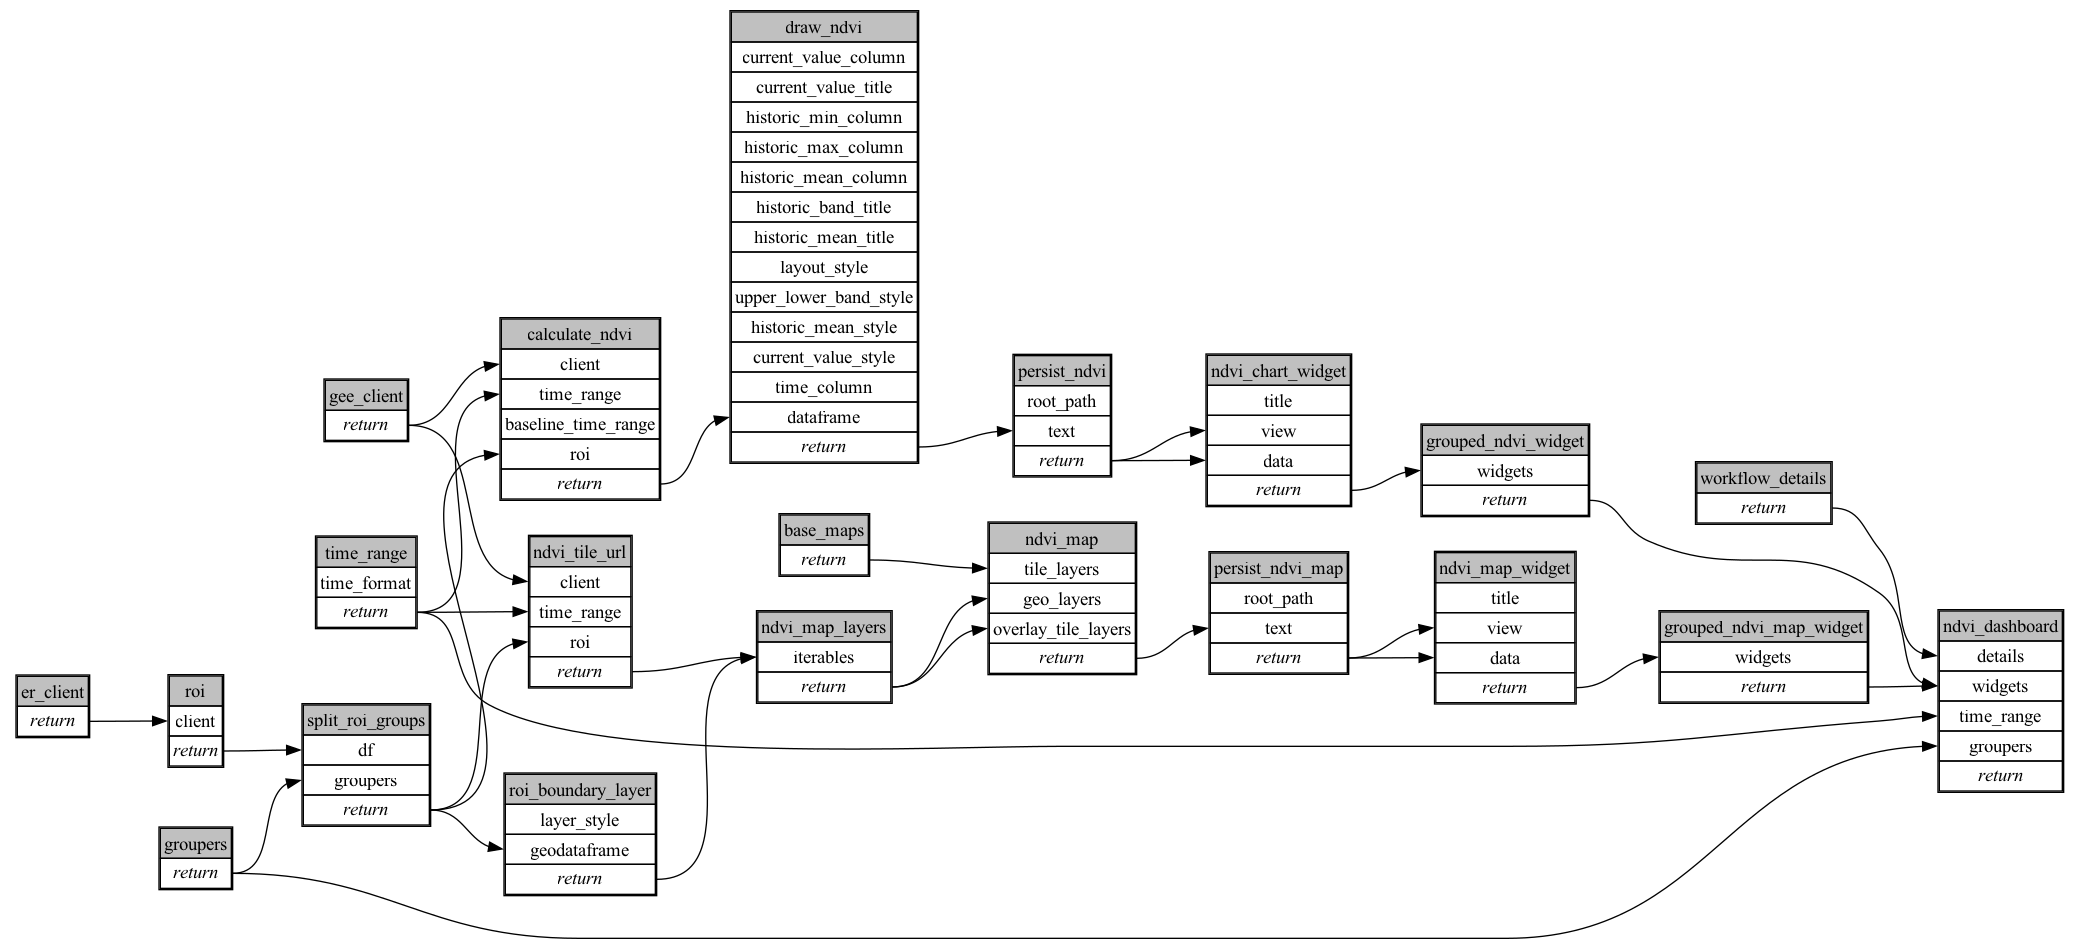
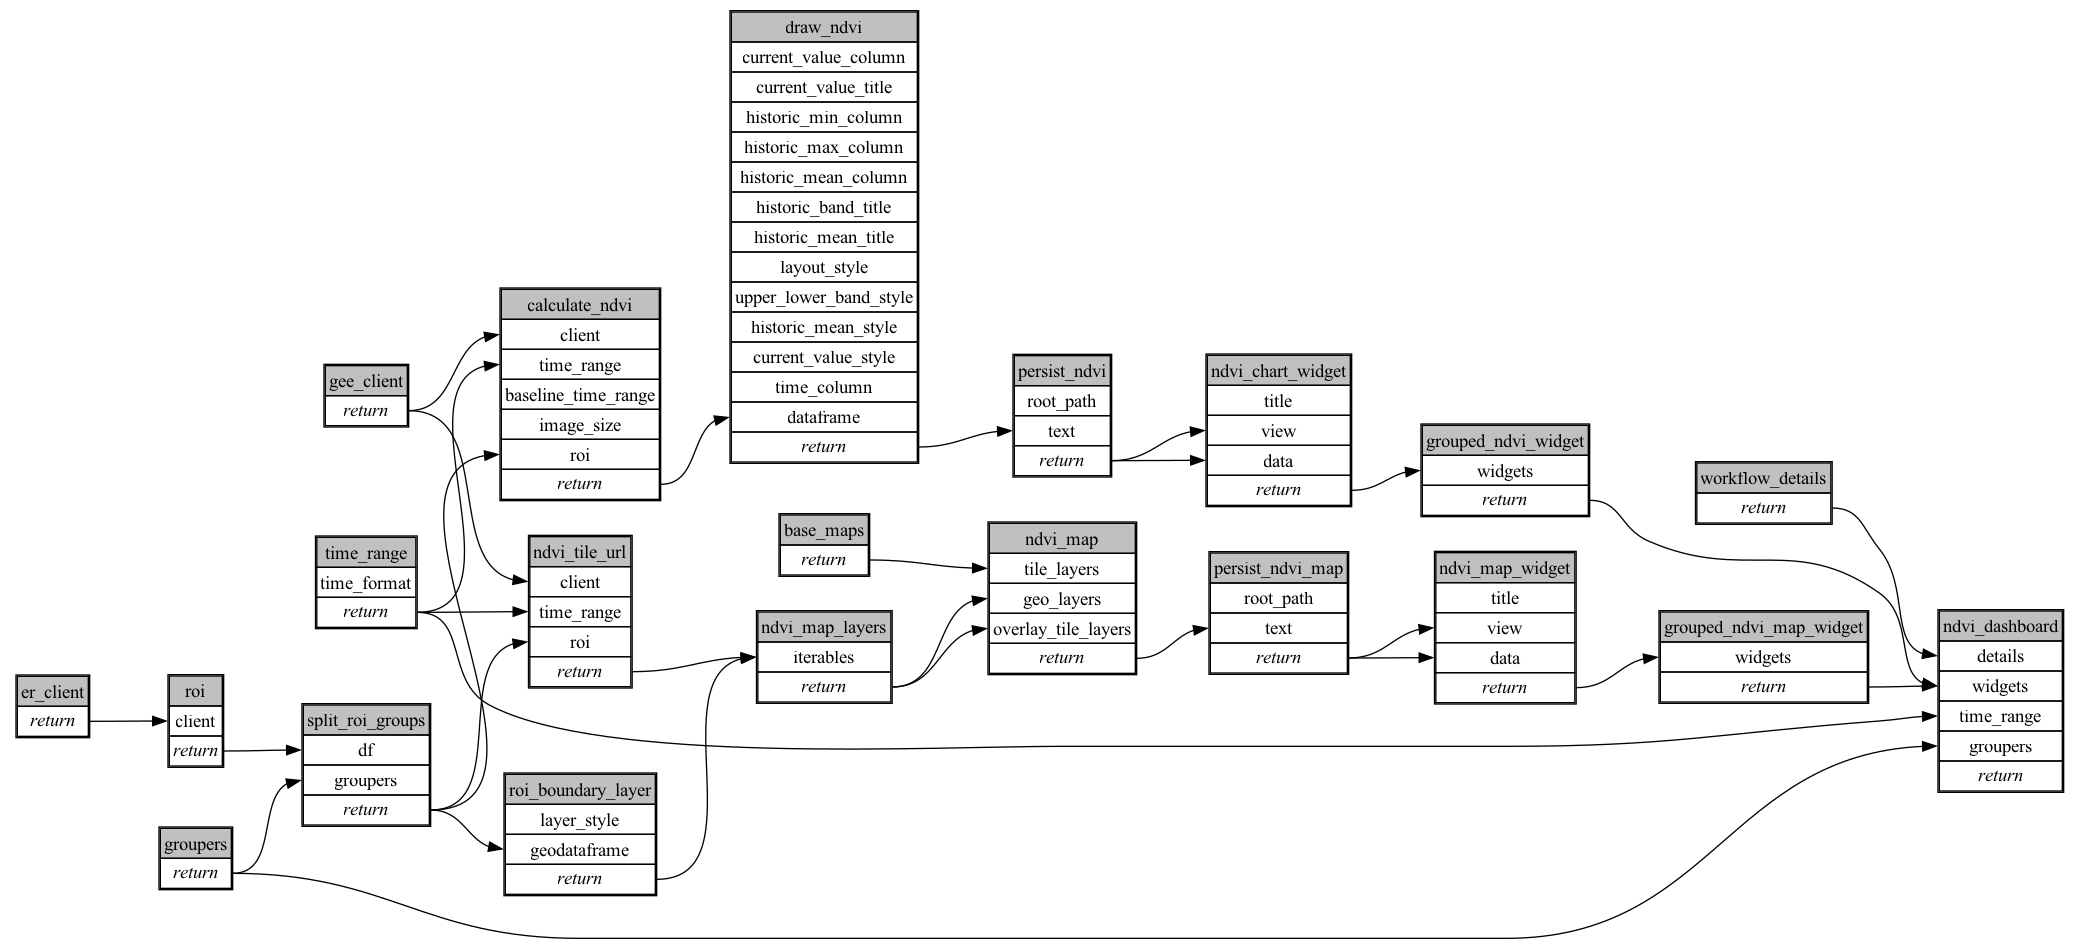
load roi rjsf tweaks

Changed region(s): [[0.1562, 0.2765, 0.3438, 0.553], [0.2188, 0.5837, 0.25, 0.6144]]

diff --git a/ecoscope-workflows-ndvi-workflow/ecoscope_workflows_ndvi_workflow/formdata.py b/ecoscope-workflows-ndvi-workflow/ecoscope_workflows_ndvi_workflow/formdata.py
@@ -33,11 +33,6 @@ class CalculateNdvi(BaseModel):
     model_config = ConfigDict(
         extra="forbid",
     )
-    image_size: int | None = Field(
-        1000000000,
-        description="Number of historical satellite images to fetch. Set to a large value to retrieve all available historical data. Only used when baseline_time_range is not provided.",
-        title="Image Size",
-    )
     ndvi_method: NdviMethod | None = Field(
         "MODIS MYD13A1 16-Day Composite",
         description="Method to obtain NDVI values. 'MODIS MYD13A1 16-Day Composite': Uses pre-calculated NDVI from 16-day composites. Provides quality-filtered 'best pixel' values at 500m resolution with ~0.025 accuracy. Better for phenology studies but may saturate in dense canopies. 'MODIS MCD43A4 Daily NBAR': Uses daily nadir BRDF-adjusted reflectance. Computes NDVI from NIR/Red bands with view-angle correction for consistent measurements. Higher temporal resolution but more susceptible to cloud gaps.",
@@ -293,12 +288,7 @@ class ValueGrouper(BaseModel):
     index_name: IndexName = Field(..., title="Category")
 
 
-class Source(str, Enum):
-    earthranger = "earthranger"
-
-
 class EarthRangerSpatialFeatures(BaseModel):
-    source: Literal["earthranger"] = Field("earthranger", title="Source")
     spatial_features_group_name: str = Field(
         ...,
         description="Name of the spatial features group in EarthRanger",
@@ -306,36 +296,32 @@ class EarthRangerSpatialFeatures(BaseModel):
     )
 
 
-class Source1(str, Enum):
-    local_file = "local_file"
-
-
 class LocalFileSpatialFeatures(BaseModel):
-    source: Literal["local_file"] = Field("local_file", title="Source")
     file_path: str = Field(
         ...,
-        description="Local path to geoparquet or geopackage file",
+        description="Path to geoparquet (.parquet) or geopackage (.gpkg) file",
         title="File Path",
     )
     layer: str | None = Field(
-        None, description="Layer name (for geopackage files only)", title="Layer"
+        None,
+        description="Layer name (only required for geopackage files)",
+        title="Layer",
     )
     name_column: str | None = Field(
         "name", description="Column to use as region name", title="Name Column"
     )
 
 
-class Source2(str, Enum):
-    remote_file = "remote_file"
-
-
 class RemoteFileSpatialFeatures(BaseModel):
-    source: Literal["remote_file"] = Field("remote_file", title="Source")
     url: str = Field(
-        ..., description="URL to download geoparquet or geopackage file", title="Url"
+        ...,
+        description="URL to geoparquet (.parquet) or geopackage (.gpkg) file",
+        title="Url",
     )
     layer: str | None = Field(
-        None, description="Layer name (for geopackage files only)", title="Layer"
+        None,
+        description="Layer name (only required for geopackage files)",
+        title="Layer",
     )
     name_column: str | None = Field(
         "name", description="Column to use as region name", title="Name Column"
@@ -427,7 +413,10 @@ class Roi(BaseModel):
         | RemoteFileSpatialFeatures
         | EarthRangerSpatialFeatures
     ) = Field(
-        ..., description="Configuration for spatial features source", title="Config"
+        default_factory=lambda: LocalFileSpatialFeatures.model_validate(
+            {"file_path": "", "name_column": "name"}
+        ),
+        title="Spatial Feature Data Source",
     )
 
 

diff --git a/ecoscope-workflows-ndvi-workflow/ecoscope_workflows_ndvi_workflow/params.py b/ecoscope-workflows-ndvi-workflow/ecoscope_workflows_ndvi_workflow/params.py
@@ -33,11 +33,6 @@ class CalculateNdvi(BaseModel):
     model_config = ConfigDict(
         extra="forbid",
     )
-    image_size: int | None = Field(
-        1000000000,
-        description="Number of historical satellite images to fetch. Set to a large value to retrieve all available historical data. Only used when baseline_time_range is not provided.",
-        title="Image Size",
-    )
     ndvi_method: NdviMethod | None = Field(
         "MODIS MYD13A1 16-Day Composite",
         description="Method to obtain NDVI values. 'MODIS MYD13A1 16-Day Composite': Uses pre-calculated NDVI from 16-day composites. Provides quality-filtered 'best pixel' values at 500m resolution with ~0.025 accuracy. Better for phenology studies but may saturate in dense canopies. 'MODIS MCD43A4 Daily NBAR': Uses daily nadir BRDF-adjusted reflectance. Computes NDVI from NIR/Red bands with view-angle correction for consistent measurements. Higher temporal resolution but more susceptible to cloud gaps.",
@@ -289,12 +284,7 @@ class ValueGrouper(BaseModel):
     index_name: str = Field(..., title="Category")
 
 
-class Source(str, Enum):
-    earthranger = "earthranger"
-
-
 class EarthRangerSpatialFeatures(BaseModel):
-    source: Literal["earthranger"] = Field("earthranger", title="Source")
     spatial_features_group_name: str = Field(
         ...,
         description="Name of the spatial features group in EarthRanger",
@@ -302,36 +292,32 @@ class EarthRangerSpatialFeatures(BaseModel):
     )
 
 
-class Source1(str, Enum):
-    local_file = "local_file"
-
-
 class LocalFileSpatialFeatures(BaseModel):
-    source: Literal["local_file"] = Field("local_file", title="Source")
     file_path: str = Field(
         ...,
-        description="Local path to geoparquet or geopackage file",
+        description="Path to geoparquet (.parquet) or geopackage (.gpkg) file",
         title="File Path",
     )
     layer: str | None = Field(
-        None, description="Layer name (for geopackage files only)", title="Layer"
+        None,
+        description="Layer name (only required for geopackage files)",
+        title="Layer",
     )
     name_column: str | None = Field(
         "name", description="Column to use as region name", title="Name Column"
     )
 
 
-class Source2(str, Enum):
-    remote_file = "remote_file"
-
-
 class RemoteFileSpatialFeatures(BaseModel):
-    source: Literal["remote_file"] = Field("remote_file", title="Source")
     url: str = Field(
-        ..., description="URL to download geoparquet or geopackage file", title="Url"
+        ...,
+        description="URL to geoparquet (.parquet) or geopackage (.gpkg) file",
+        title="Url",
     )
     layer: str | None = Field(
-        None, description="Layer name (for geopackage files only)", title="Layer"
+        None,
+        description="Layer name (only required for geopackage files)",
+        title="Layer",
     )
     name_column: str | None = Field(
         "name", description="Column to use as region name", title="Name Column"
@@ -422,9 +408,7 @@ class Roi(BaseModel):
         LocalFileSpatialFeatures
         | RemoteFileSpatialFeatures
         | EarthRangerSpatialFeatures
-    ) = Field(
-        ..., description="Configuration for spatial features source", title="Config"
-    )
+    ) = Field(..., title="Spatial Feature Data Source")
 
 
 class NdviMap(BaseModel):

diff --git a/ecoscope-workflows-ndvi-workflow/ecoscope_workflows_ndvi_workflow/dags/jupytext.py b/ecoscope-workflows-ndvi-workflow/ecoscope_workflows_ndvi_workflow/dags/jupytext.py
@@ -222,7 +222,6 @@ split_roi_groups = (
 # parameters
 
 calculate_ndvi_params = dict(
-    image_size=...,
     ndvi_method=...,
     grouping_unit=...,
 )
@@ -239,6 +238,7 @@ calculate_ndvi = (
         client=gee_client,
         time_range=time_range,
         baseline_time_range=None,
+        image_size=1000000000,
         **calculate_ndvi_params,
     )
     .mapvalues(argnames=["roi"], argvalues=split_roi_groups)

diff --git a/ecoscope-workflows-ndvi-workflow/ecoscope_workflows_ndvi_workflow/dags/run_async.py b/ecoscope-workflows-ndvi-workflow/ecoscope_workflows_ndvi_workflow/dags/run_async.py
@@ -163,6 +163,7 @@ def main(params: Params):
                 "client": DependsOn("gee_client"),
                 "time_range": DependsOn("time_range"),
                 "baseline_time_range": None,
+                "image_size": 1000000000,
             }
             | (params_dict.get("calculate_ndvi") or {}),
             method="mapvalues",

diff --git a/ecoscope-workflows-ndvi-workflow/ecoscope_workflows_ndvi_workflow/dags/run_async_mock_io.py b/ecoscope-workflows-ndvi-workflow/ecoscope_workflows_ndvi_workflow/dags/run_async_mock_io.py
@@ -181,6 +181,7 @@ def main(params: Params):
                 "client": DependsOn("gee_client"),
                 "time_range": DependsOn("time_range"),
                 "baseline_time_range": None,
+                "image_size": 1000000000,
             }
             | (params_dict.get("calculate_ndvi") or {}),
             method="mapvalues",

diff --git a/ecoscope-workflows-ndvi-workflow/ecoscope_workflows_ndvi_workflow/dags/run_sequential.py b/ecoscope-workflows-ndvi-workflow/ecoscope_workflows_ndvi_workflow/dags/run_sequential.py
@@ -124,6 +124,7 @@ def main(params: Params):
             client=gee_client,
             time_range=time_range,
             baseline_time_range=None,
+            image_size=1000000000,
             **(params_dict.get("calculate_ndvi") or {}),
         )
         .mapvalues(argnames=["roi"], argvalues=split_roi_groups)

diff --git a/ecoscope-workflows-ndvi-workflow/ecoscope_workflows_ndvi_workflow/dags/run_sequential_mock_io.py b/ecoscope-workflows-ndvi-workflow/ecoscope_workflows_ndvi_workflow/dags/run_sequential_mock_io.py
@@ -142,6 +142,7 @@ def main(params: Params):
             client=gee_client,
             time_range=time_range,
             baseline_time_range=None,
+            image_size=1000000000,
             **(params_dict.get("calculate_ndvi") or {}),
         )
         .mapvalues(argnames=["roi"], argvalues=split_roi_groups)

diff --git a/ecoscope-workflows-ndvi-workflow/README.md b/ecoscope-workflows-ndvi-workflow/README.md
@@ -5,8 +5,8 @@
 
 ```yaml
 # fingerprint:
-artifacts_sha256_basic: 6ad9825f7147ed5383b1a2c185eeb2447b0ebf0b3aa2278b0480f21ecfde4830
-artifacts_sha256_strict: db9e7721a619aa0dfb42aad574f645565cb0f1b03ac60e1c871a4412927e1cf3
+artifacts_sha256_basic: 3c05cc65992ee924486b5a5a85cf5bc523b2e48f18e9f9f3410464b65108ed69
+artifacts_sha256_strict: 6eb326f88174bedb18bdf76f36e4e50d14c170fa9825cce713eb1a5a8189c14d
 installed_requirements:
 - channel: https://repo.prefix.dev/ecoscope-workflows/
   name: ecoscope-workflows-core
@@ -17,8 +17,8 @@ installed_requirements:
 - channel: https://repo.prefix.dev/ecoscope-workflows-custom/
   name: ecoscope-workflows-ext-custom
   version: {version: ==0.0.29.dev4+g3c854f5d1.d20260223}
-params_sha256: 44b8f6fff68ab91eeb7f217dce1c2e1a919bc80866ba6f5d3ed28d13c8f66c3c
-spec_sha256: e2df312d60d54c6061232d66a6d0d56a6039499c55410ca9ef0f7b6ecadd22b9
+params_sha256: 81251fc07372eea497e6e394dda5720147485d64bc0826eb3797b2316e29c385
+spec_sha256: 3ade38dc6953e3bf9ac6eb07297ab545808cdd80b3492902254d8aaa23ad91cf
 
 ```
 
